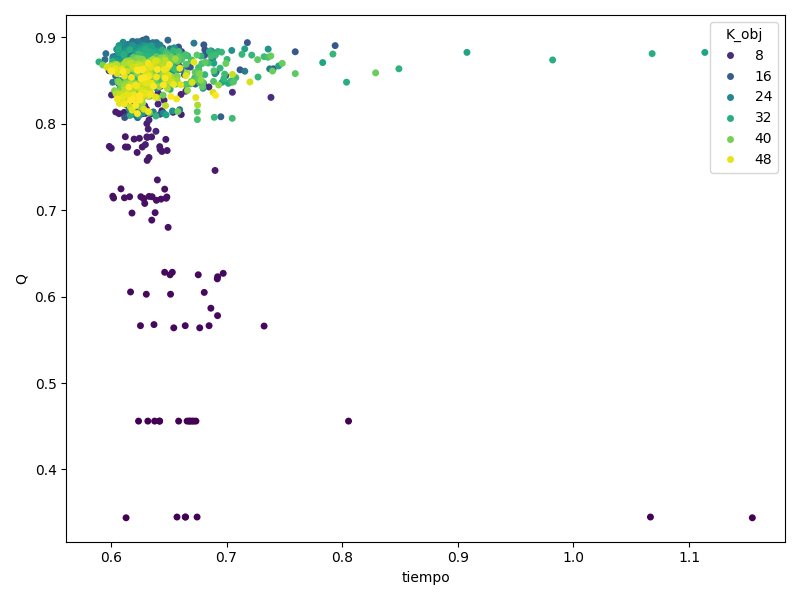
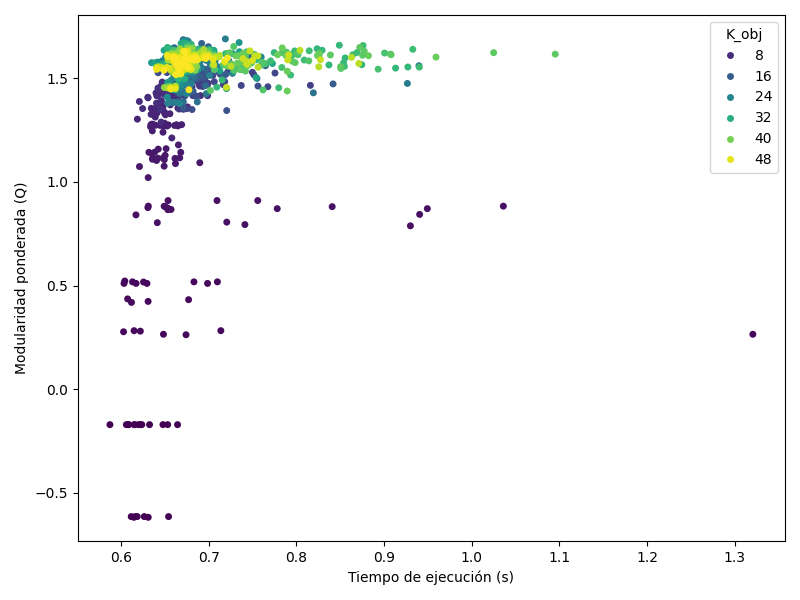
FIX-Genetico, pruebas y graficas

diff --git a/pruebaGenetico.py b/pruebaGenetico.py
@@ -12,9 +12,11 @@ from experimentos import cargar_y_preparar
 
 
 def probar_genetico(
-    semillas=tuple(range(50)),   # más repeticiones para gráficas ricas
-    tam_poblacion=50,            # un poco más de diversidad
-    generaciones=80,             # más largo para estabilizar
+    semillas=tuple(range(50)),
+    tam_poblacion=60,
+    generaciones=100,
+    paciencia=20,
+    tol_mejora=1e-6,
     p_cruce=0.9,
     p_mutacion=0.25,
     elitismo=2,
@@ -22,7 +24,7 @@ def probar_genetico(
     frac_cruce=0.3,
     p_inmigracion=0.02,
     k_candidatos_mut=5,
-    usar_mutacion_informada=False,  # mantener rápido por defecto
+    usar_mutacion_informada=False,
     guardar_dir="resultados/genetico",
     medir_tiempo=True,
     outlier_umbral_s=5.0,
@@ -48,6 +50,8 @@ def probar_genetico(
             modularidad_ponderada,
             tam_poblacion=tam_poblacion,
             generaciones=generaciones,
+            paciencia=paciencia,
+            tol_mejora=tol_mejora,
             p_cruce=p_cruce,
             p_mutacion=p_mutacion,
             elitismo=elitismo,
@@ -146,14 +150,42 @@ def probar_genetico(
                 indent=2,
             )
 
+        # Agrupamos semillas en bloques para mostrar varias cajas
+        df_runs["grupo_seed"] = (df_runs["seed"] // 5) * 5
+        df_runs["grupo_seed"] = df_runs["grupo_seed"].astype(str) + "-" + (
+            df_runs["grupo_seed"] + 4
+        ).astype(str)
+
         plt.figure(figsize=(8, 6))
-        sns.boxplot(data=df_runs, x="algoritmo", y="Q")
+        sns.boxplot(data=df_runs, x="grupo_seed", y="Q", color="lightgray")
+        sns.stripplot(
+            data=df_runs,
+            x="grupo_seed",
+            y="Q",
+            color="0.3",
+            alpha=0.7,
+            jitter=0.1,
+            dodge=False,
+            size=4,
+        )
+        plt.xlabel("Grupo de semillas (seed en bloques de 5)")
+        plt.ylabel("Modularidad ponderada (Q)")
         plt.tight_layout()
         plt.savefig(os.path.join(guardar_dir, "boxplot_Q.png"))
         plt.close()
 
         plt.figure(figsize=(8, 6))
-        sns.scatterplot(data=df_runs, x="tiempo", y="Q", hue="seed", palette="viridis", s=25, edgecolor="none")
+        sns.scatterplot(
+            data=df_runs,
+            x="tiempo",
+            y="Q",
+            hue="seed",
+            palette="viridis",
+            s=25,
+            edgecolor="none",
+        )
+        plt.xlabel("Tiempo de ejecución (s)")
+        plt.ylabel("Modularidad ponderada (Q)")
         plt.tight_layout()
         plt.savefig(os.path.join(guardar_dir, "scatter_Q_vs_tiempo.png"))
         plt.close()
@@ -171,8 +203,10 @@ def probar_genetico(
 if __name__ == "__main__":
     probar_genetico(
         semillas=tuple(range(50)),
-        tam_poblacion=50,
-        generaciones=80,
+        tam_poblacion=60,
+        generaciones=100,
+        paciencia=20,
+        tol_mejora=1e-6,
         p_cruce=0.9,
         p_mutacion=0.25,
         elitismo=2,

diff --git a/Geneticsolution.py b/Geneticsolution.py
@@ -40,7 +40,7 @@ def inicial_aleatoria(prep, rng, p_nueva=0.02):
 
 
 def seleccion_torneo(fitness, rng, k=2):
-    """Devuelve índice del ganador de torneo de tamaño k (maximiza fitness)."""
+    """Devuelve índice del ganador de torneo de tamaño k"""
     n = len(fitness)
     idxs = rng.integers(0, n, size=k)
     best = idxs[0]
@@ -52,7 +52,7 @@ def seleccion_torneo(fitness, rng, k=2):
 
 def subconjunto_bfs(prep, rng, tam_objetivo):
     """
-    Genera un subconjunto S de nodos usando BFS aleatorio desde una semilla,
+    Genera un subconjunto S de nodos usando BFS aleatrio desde una semilla,
     para que el cruce copie un 'bloque' coherente.
     """
     n = prep["n"]
@@ -161,6 +161,8 @@ def genetico_comunidades(
     *,
     tam_poblacion=40,
     generaciones=60,
+    paciencia=12,
+    tol_mejora=1e-6,
     p_cruce=0.9,
     p_mutacion=0.2,
     elitismo=2,
@@ -181,6 +183,8 @@ def genetico_comunidades(
     fitness = np.array([modularidad_ponderada(prep, ind) for ind in poblacion], dtype=float)
 
     historial = []
+    mejor_global = float(fitness.max()) if len(fitness) > 0 else float("-inf")
+    generaciones_sin_mejora = 0
     for gen in range(generaciones):
         orden = np.argsort(-fitness)
         poblacion = [poblacion[i] for i in orden]
@@ -191,13 +195,16 @@ def genetico_comunidades(
         historial.append((best_Q, avg_Q))
 
         nueva = []
+        fitness_nueva = []
 
         for e in range(min(elitismo, tam_poblacion)):
             nueva.append(np.array(poblacion[e], copy=True))
+            fitness_nueva.append(float(fitness[e]))
 
         n_inm = int(round(p_inmigracion * tam_poblacion))
         for _ in range(n_inm):
             nueva.append(inicial_aleatoria(prep, rng))
+            fitness_nueva.append(None)
 
         while len(nueva) < tam_poblacion:
             ia = seleccion_torneo(fitness, rng, k=torneo_k)
@@ -223,9 +230,21 @@ def genetico_comunidades(
                     hijo = mutacion_move_vecino_simple(prep, hijo, rng)
 
             nueva.append(hijo)
+            fitness_nueva.append(None)
 
         poblacion = nueva
-        fitness = np.array([modularidad_ponderada(prep, ind) for ind in poblacion], dtype=float)
+        for i, fit in enumerate(fitness_nueva):
+            if fit is None:
+                fitness_nueva[i] = modularidad_ponderada(prep, poblacion[i])
+        fitness = np.asarray(fitness_nueva, dtype=float)
+
+        if best_Q > mejor_global + tol_mejora:
+            mejor_global = best_Q
+            generaciones_sin_mejora = 0
+        else:
+            generaciones_sin_mejora += 1
+            if generaciones_sin_mejora >= paciencia:
+                break
 
     best_idx = int(np.argmax(fitness))
     best_labels = poblacion[best_idx]

diff --git a/pruebasGRASP.py b/pruebasGRASP.py
@@ -243,6 +243,8 @@ def probar_grasp_por_k(
         plt.figure(figsize=(10, 6))
         sns.boxplot(data=df_runs, x="K_obj", y="Q")
         plt.xticks(rotation=90)
+        plt.xlabel("K objetivo")
+        plt.ylabel("Modularidad ponderada (Q)")
         plt.tight_layout()
         plt.savefig(os.path.join(guardar_dir, "boxplot_Q_por_K.png"))
         plt.close()
@@ -257,6 +259,8 @@ def probar_grasp_por_k(
             s=25,
             edgecolor="none",
         )
+        plt.xlabel("Tiempo de ejecución (s)")
+        plt.ylabel("Modularidad ponderada (Q)")
         plt.tight_layout()
         plt.savefig(os.path.join(guardar_dir, "scatter_Q_vs_tiempo.png"))
         plt.close()

diff --git a/experimento_SA.py b/experimento_SA.py
@@ -103,12 +103,16 @@ def correr_experimento_sa(
     plt.figure(figsize=(10, 6))
     sns.boxplot(data=df, x="k", y="Q")
     plt.xticks(rotation=90)
+    plt.xlabel("k objetivo")
+    plt.ylabel("Modularidad ponderada (Q)")
     plt.tight_layout()
     plt.savefig(os.path.join(guardar_dir, "boxplot_Q_por_k.png"))
     plt.close()
 
     plt.figure(figsize=(8, 6))
     sns.scatterplot(data=df, x="tiempo", y="Q", hue="k", palette="viridis", s=25, edgecolor="none")
+    plt.xlabel("Tiempo de ejecución (s)")
+    plt.ylabel("Modularidad ponderada (Q)")
     plt.tight_layout()
     plt.savefig(os.path.join(guardar_dir, "scatter_Q_vs_tiempo.png"))
     plt.close()

diff --git a/funcionObjetivo.py b/funcionObjetivo.py
@@ -14,12 +14,13 @@ def modularidad_ponderada(prep, labels):
     """
     labels = np.asarray(labels)
     s = prep["strength"]
+    M = prep.get("m")
+    if M is None:
+        M = s.sum() / 2.0
     neighbors = prep["neighbors"]
     weights = prep["weights"]
     n = prep["n"]
 
-    # M = suma de pesos de aristas (cada arista una vez)
-    M = s.sum() / 2.0
     if M == 0:
         return 0.0
 
